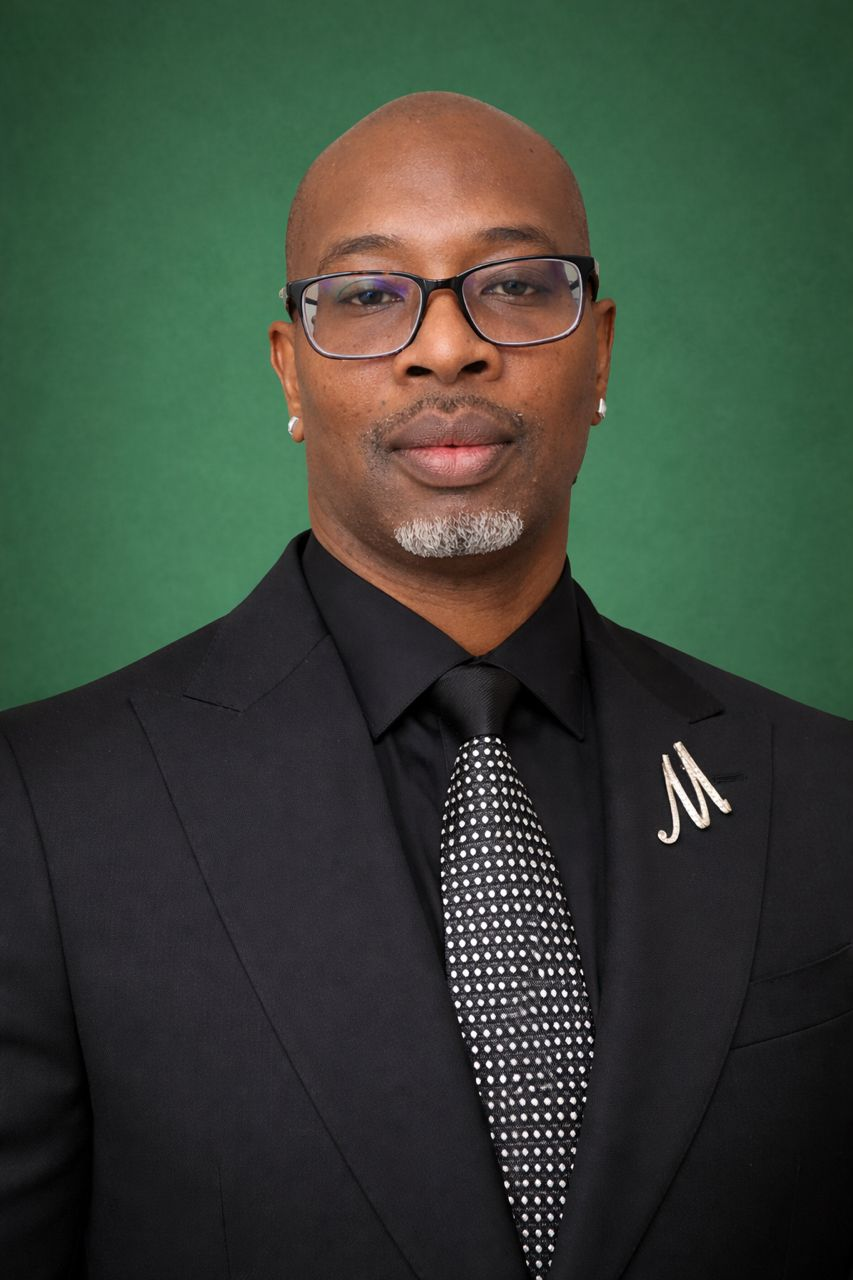
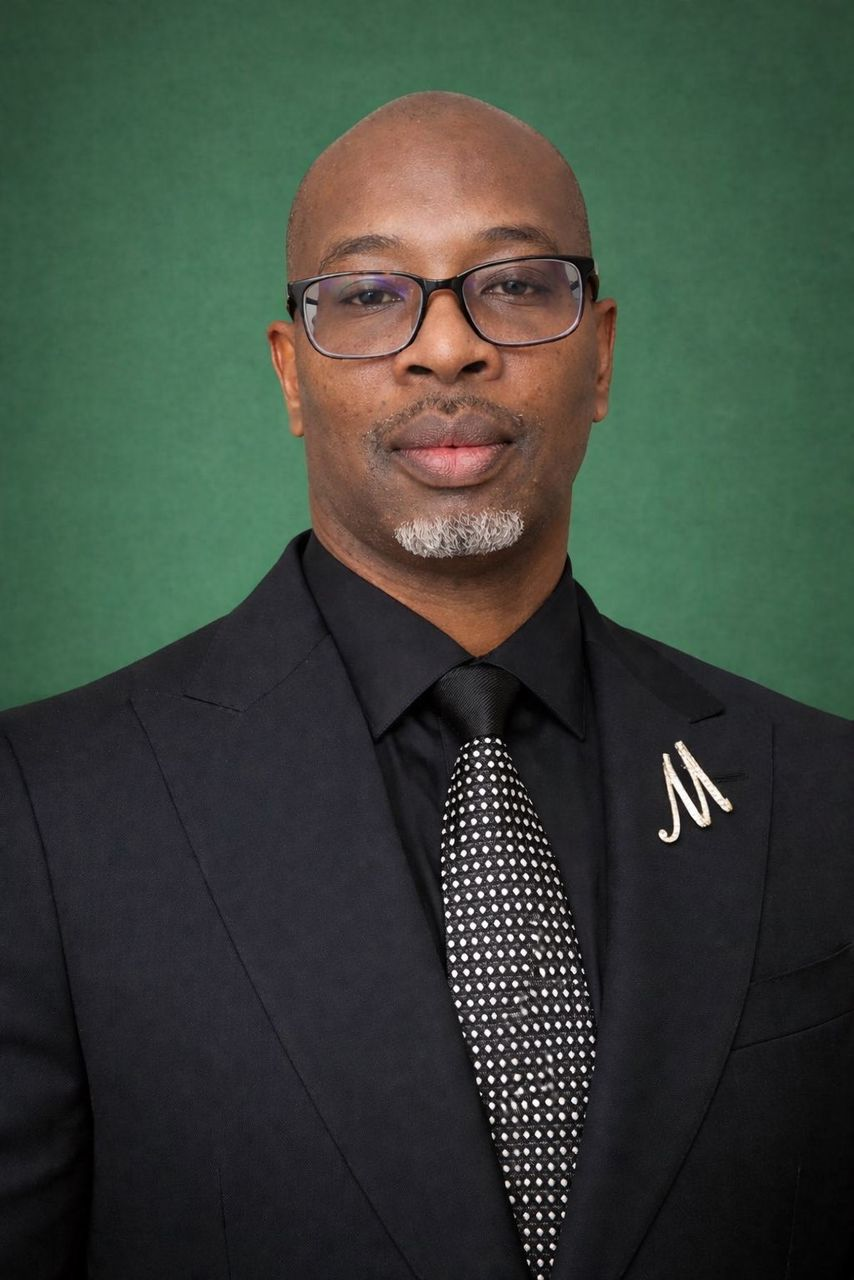
update page

diff --git a/src/components/Footer.jsx b/src/components/Footer.jsx
@@ -58,7 +58,7 @@ export default function Footer() {
             </p>
             <div className="space-y-2 text-sm text-cream-300">
               <div className="flex items-center gap-2"><MapPin size={14} className="text-gold-500 shrink-0" /><span>1200 Forest Way, Suite 400, Austin TX 78701</span></div>
-              <div className="flex items-center gap-2"><Phone size={14} className="text-gold-500 shrink-0" /><span>(712) 326-6711</span></div>
+              <div className="flex items-center gap-2"><Phone size={14} className="text-gold-500 shrink-0" /><span>(616) 256-7455</span></div>
               <div className="flex items-center gap-2"><Mail size={14} className="text-gold-500 shrink-0" /><span>info@evergreenresources.org</span></div>
             </div>
           </div>
